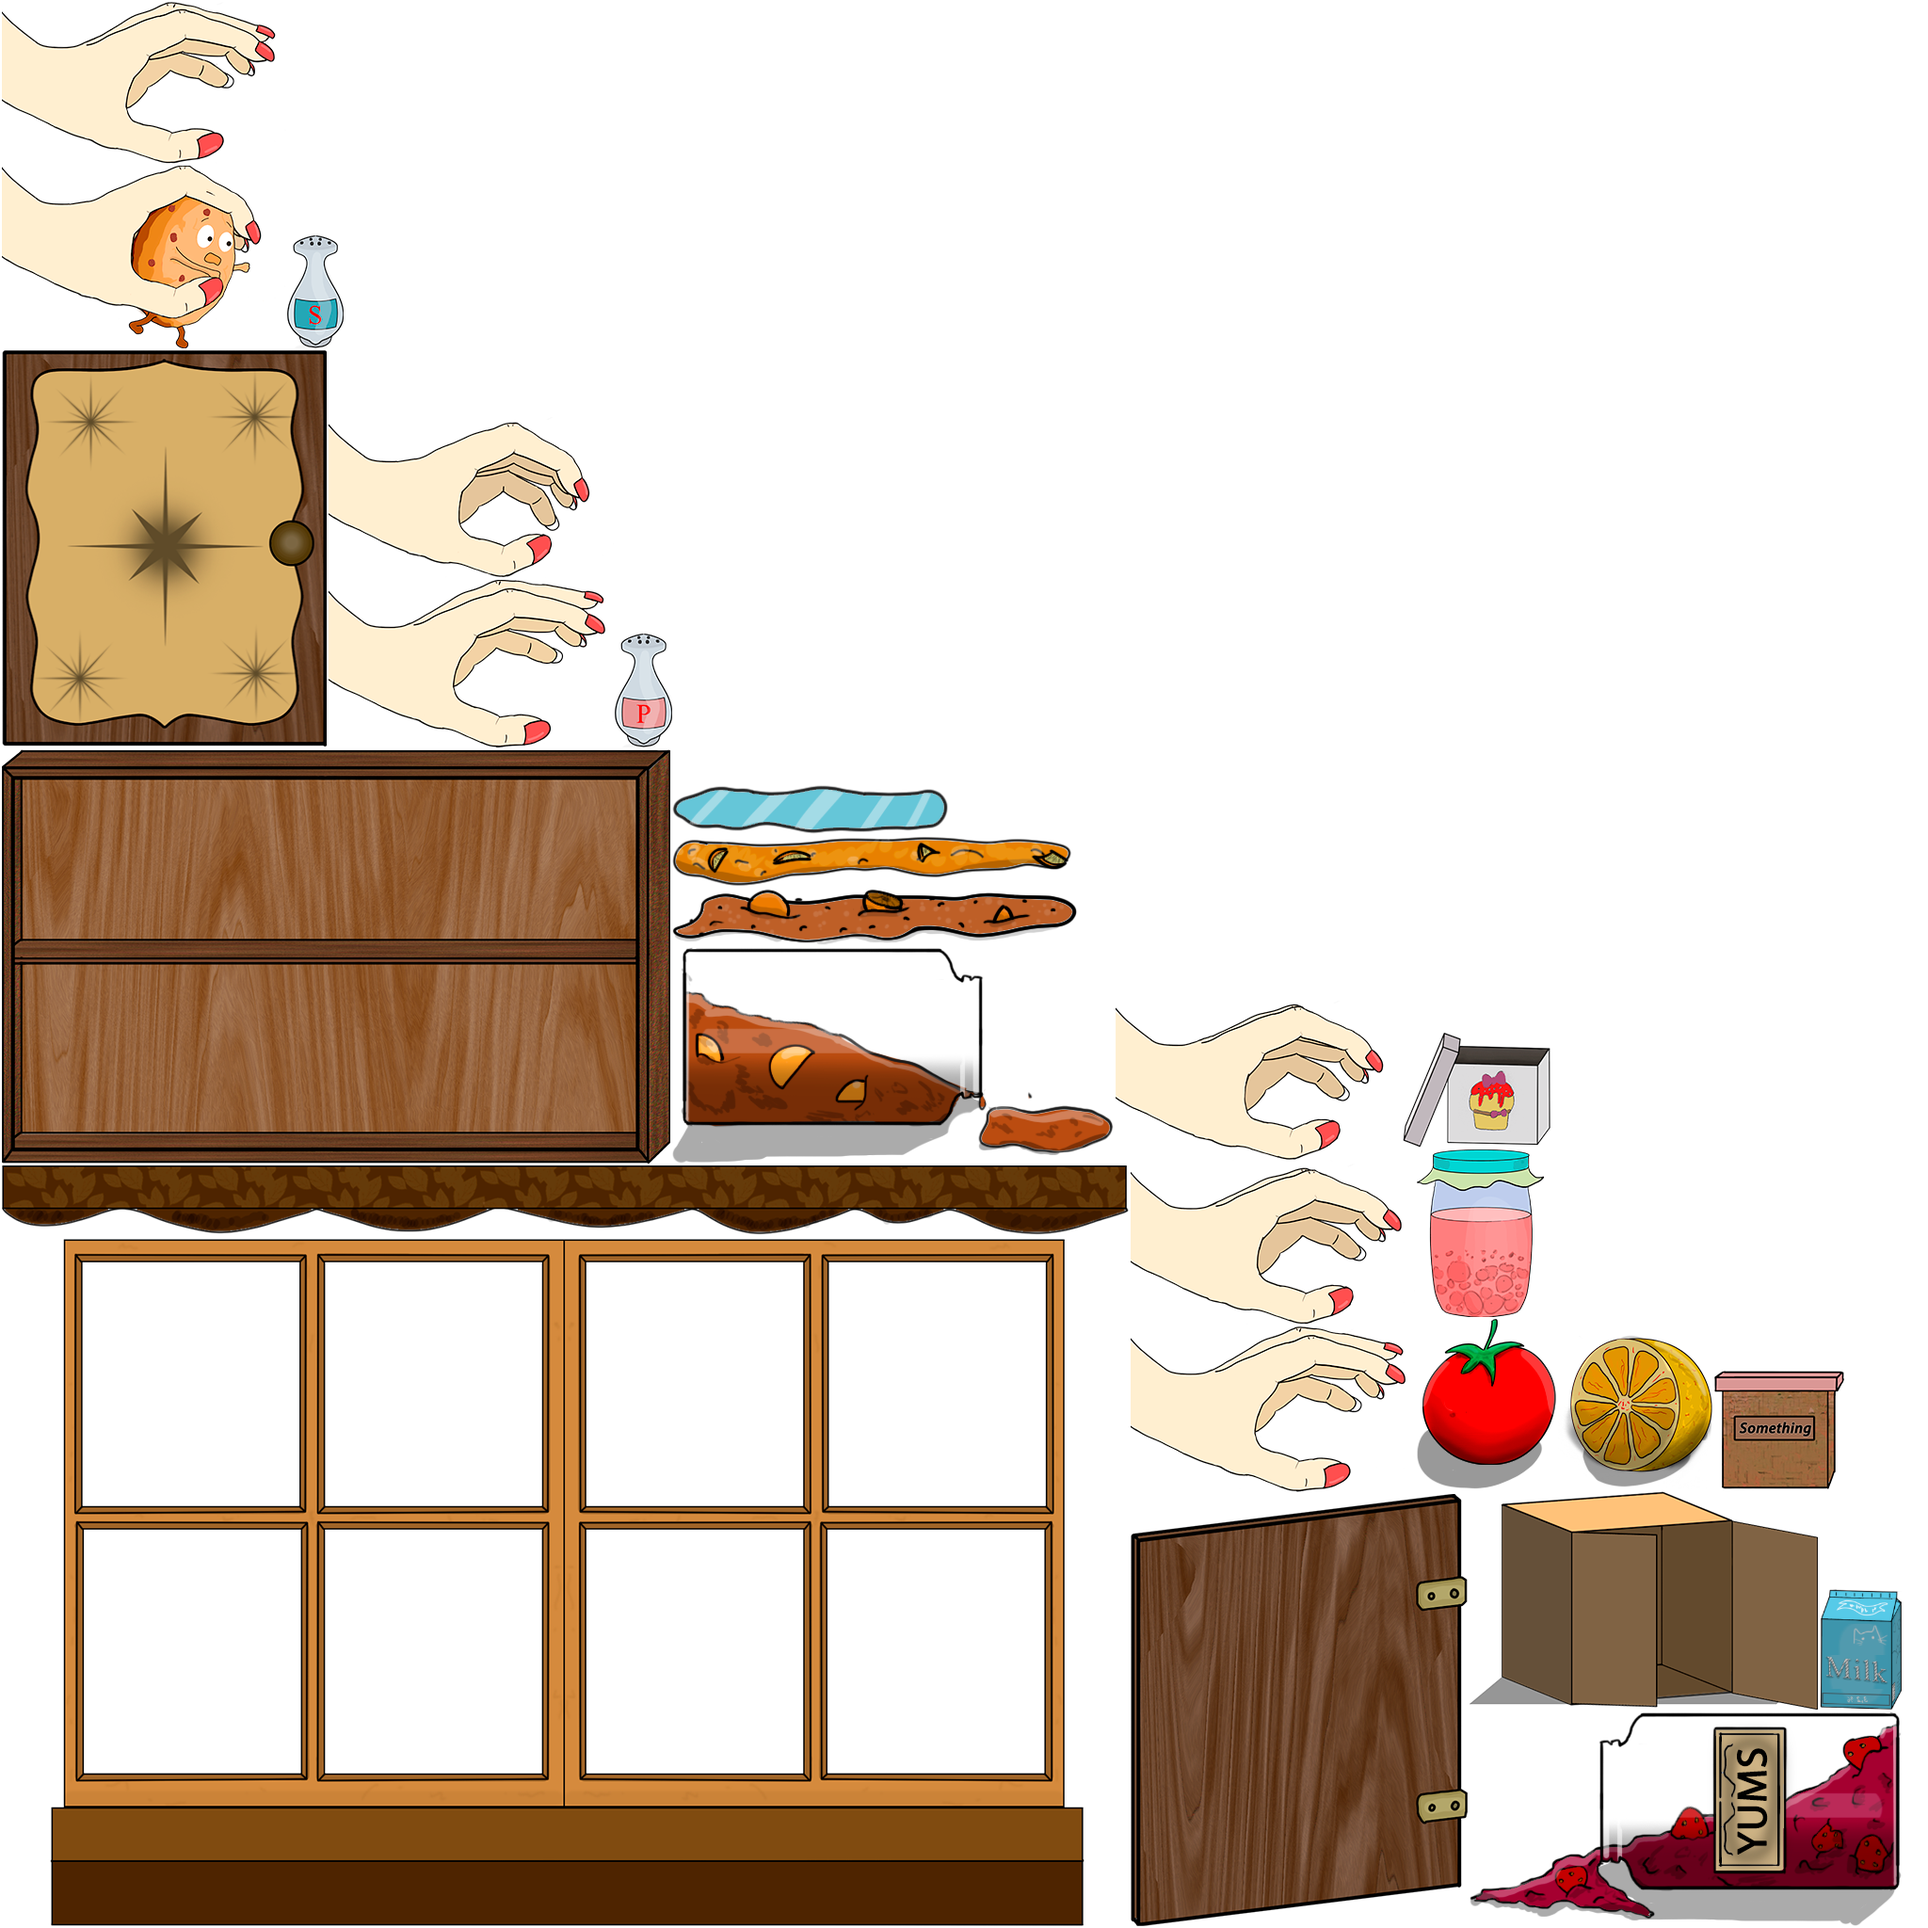
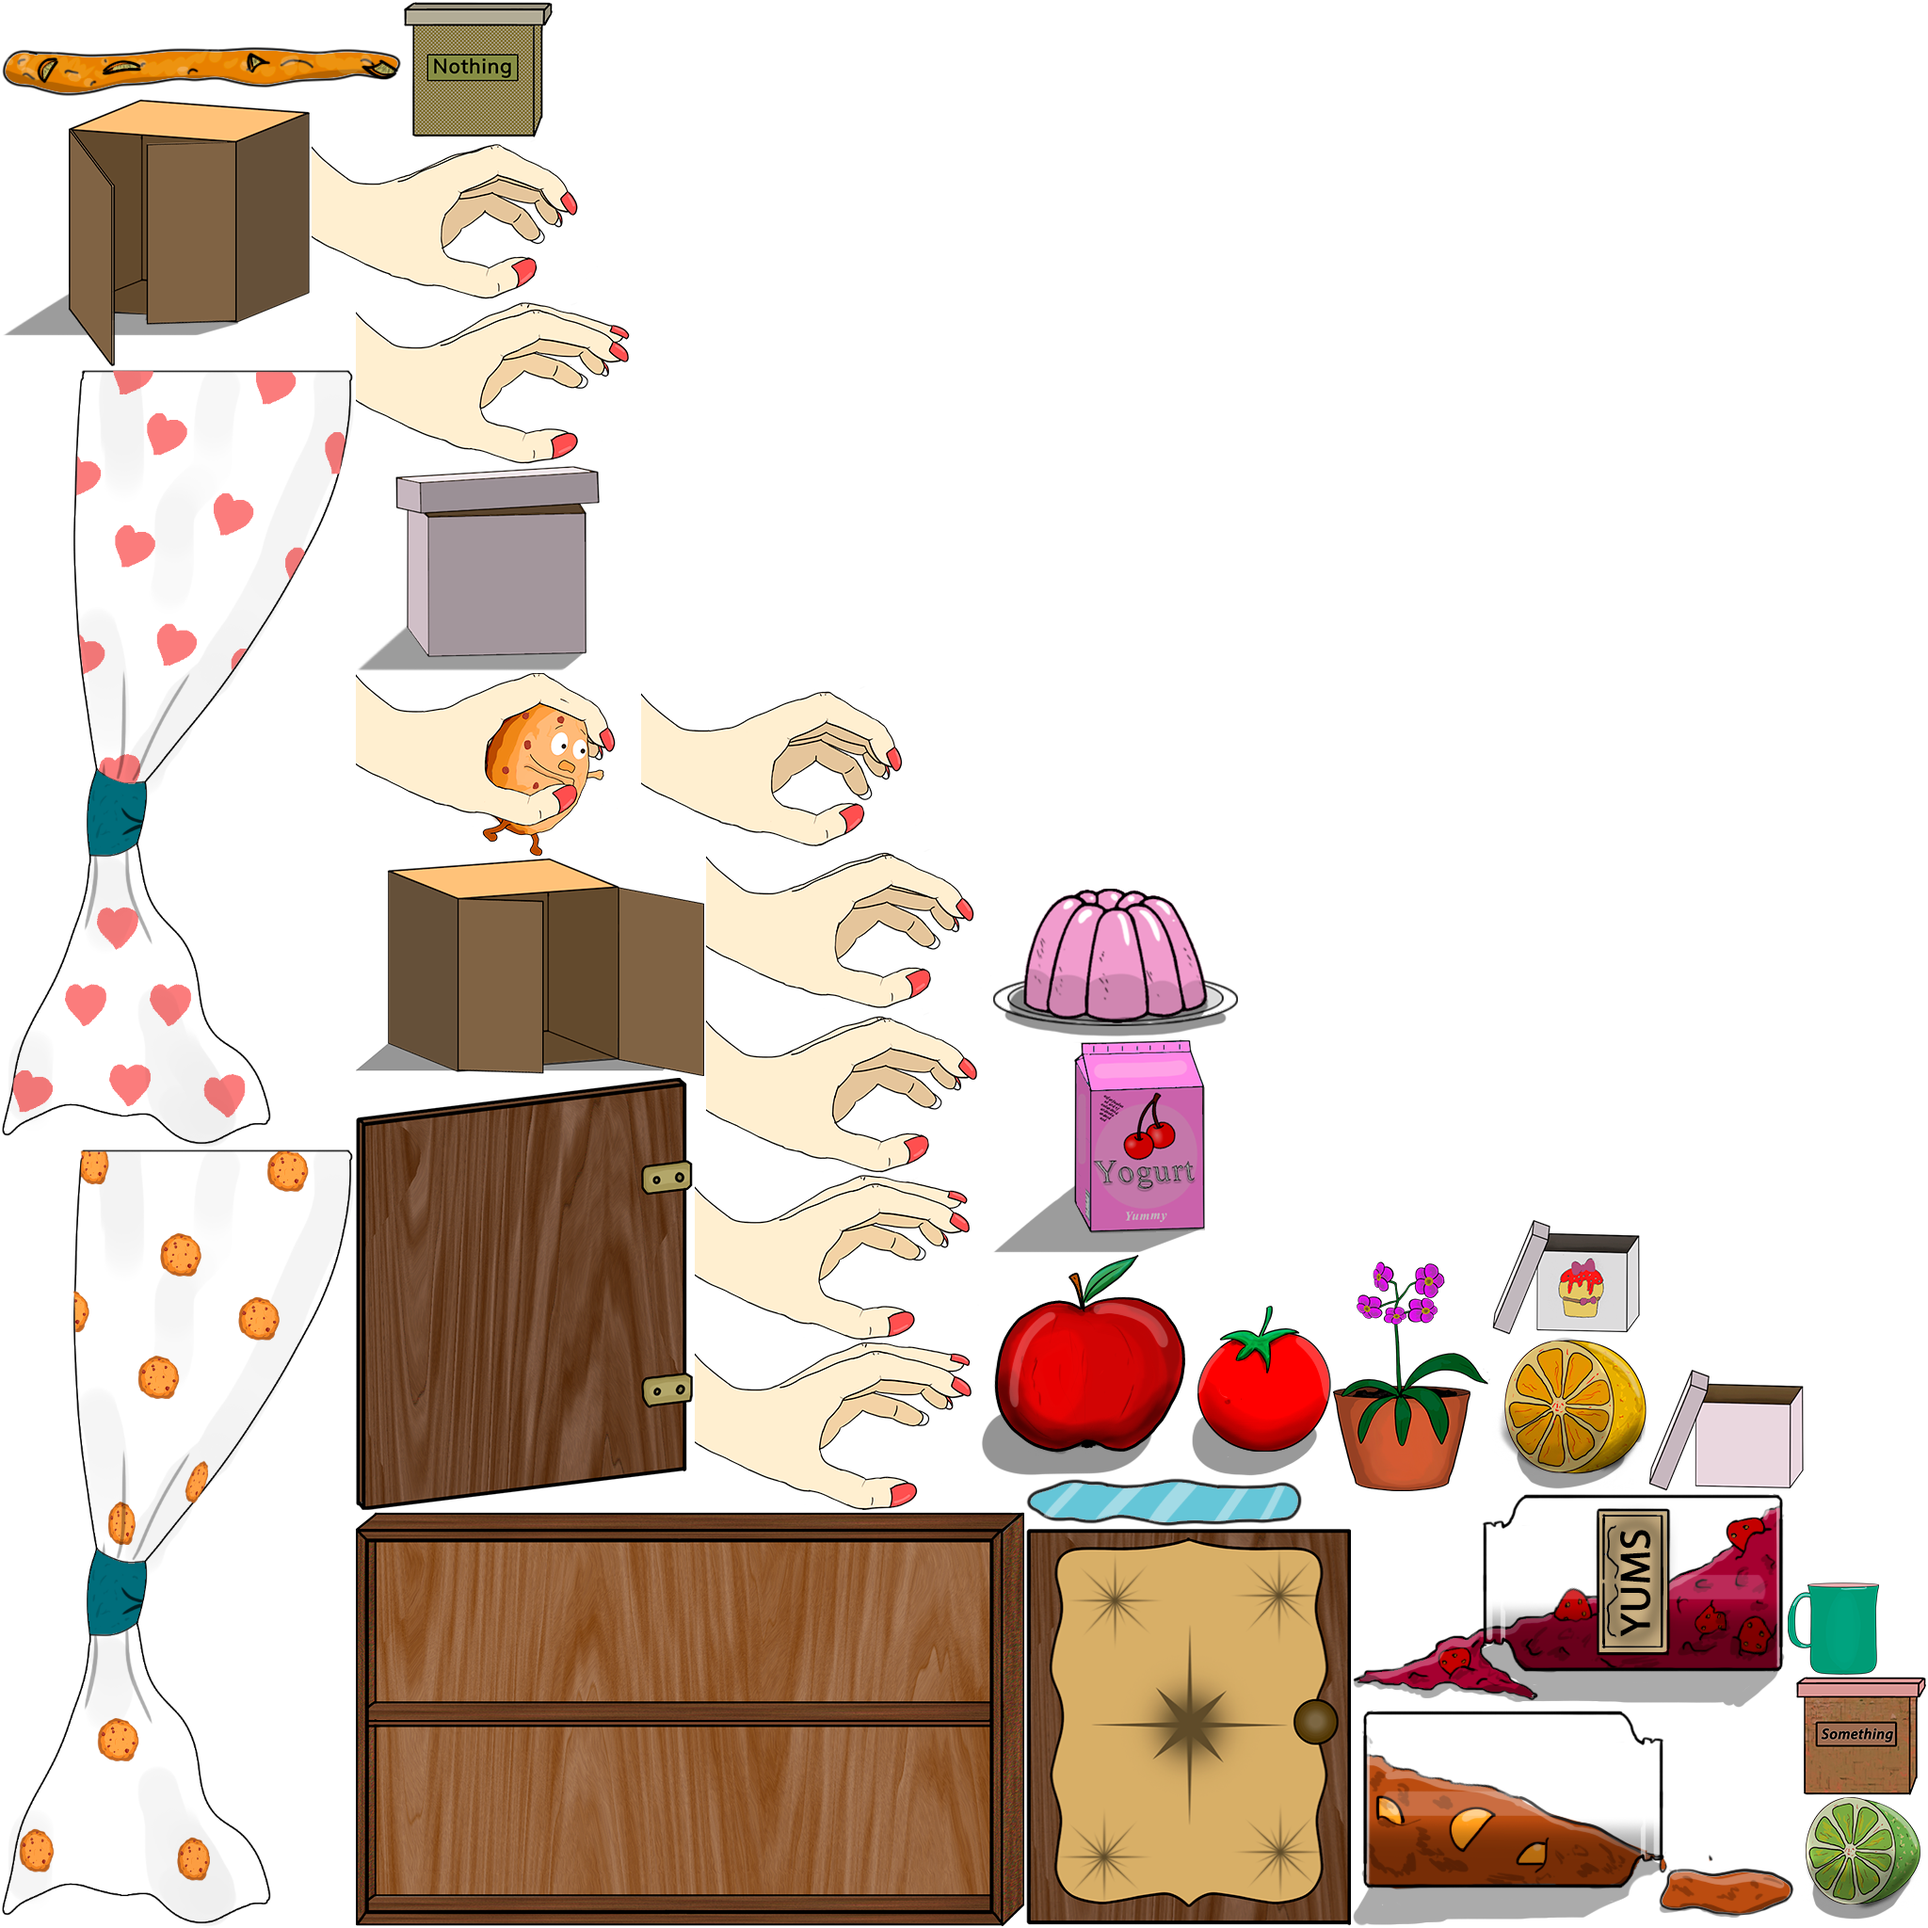
(feature) added bread to table items

diff --git a/core/src/com/mygdx/game/actors/game/RandomTableItem.kt b/core/src/com/mygdx/game/actors/game/RandomTableItem.kt
@@ -100,7 +100,7 @@ class RandomTableItem(private val manager: AssetManager,
 
     private fun setRandomItem() {
         val maxItemCount  = 20
-        when (1) { //TODO in production only - rand.nextInt(maxItemCount)
+        when (21) { //TODO in production only - rand.nextInt(maxItemCount)
             1 -> {
                 region = texture.findRegion(Assets.EnvironmentAtlas.BOX1)
                 val boundHeight = region.originalHeight.toFloat() - 25 - 20
@@ -274,14 +274,15 @@ class RandomTableItem(private val manager: AssetManager,
                 jumpOnSound = null
                 structure = Structure.SHARP
             }
-/*            14-> {
-                region = texture.findRegion(Assets.EnvironmentAtlas.OPEN_BOX)
-                val boundHeight = region.originalHeight.toFloat() - 35 - 15
-                val boundWidth = region.originalWidth.toFloat() - 90 - 32
-                startBound = Rectangle(32f, 25f, boundWidth, boundHeight)
-                y = table.worktopY - 35f
+            21 -> {
+                region = texture.findRegion(Assets.EnvironmentAtlas.BREAD)
+                val boundHeight = region.originalHeight.toFloat() - 20
+                val boundWidth = region.originalWidth.toFloat() - 30 - 50
+                startBound = Rectangle(50f, 0f, boundWidth, boundHeight)
+                y = table.worktopY - 30
+                jumpOnSound = SoundApp.JUMP_ON_BOX
                 structure = Structure.NORMAL
-            }*/
+            }
             else -> {
                 region = texture.findRegion(Assets.EnvironmentAtlas.BOX4)
                 val boundHeight = region.originalHeight.toFloat() - 20

diff --git a/core/src/com/mygdx/game/actors/game/Cupboard.kt b/core/src/com/mygdx/game/actors/game/Cupboard.kt
@@ -64,10 +64,10 @@ class Cupboard(val manager: AssetManager, originY: Float) : GameActor(), Scrolla
 
     override fun resetState() {
         scroll.reset()
-        rightDoorRegion = getDoorRegion()
-        leftDoorRegion = getDoorRegion()
         upperItemsTextures = getTexturesArray()
         downItemsTextures = getTexturesArray()
+        rightDoorRegion = getDoorRegion()
+        leftDoorRegion = getDoorRegion()
     }
 
     override fun draw(batch: Batch?, parentAlpha: Float) {

diff --git a/core/src/com/mygdx/game/data/Assets.kt b/core/src/com/mygdx/game/data/Assets.kt
@@ -101,6 +101,7 @@ class Assets {
             const val JAR_WITH_JAM_2 = "jar_with_jam2"
             const val ICE_PUDDLE = "ice_puddle"
             const val PUSHPIN = "pushpin"
+            const val BREAD = "bread"
         }
     }
 
